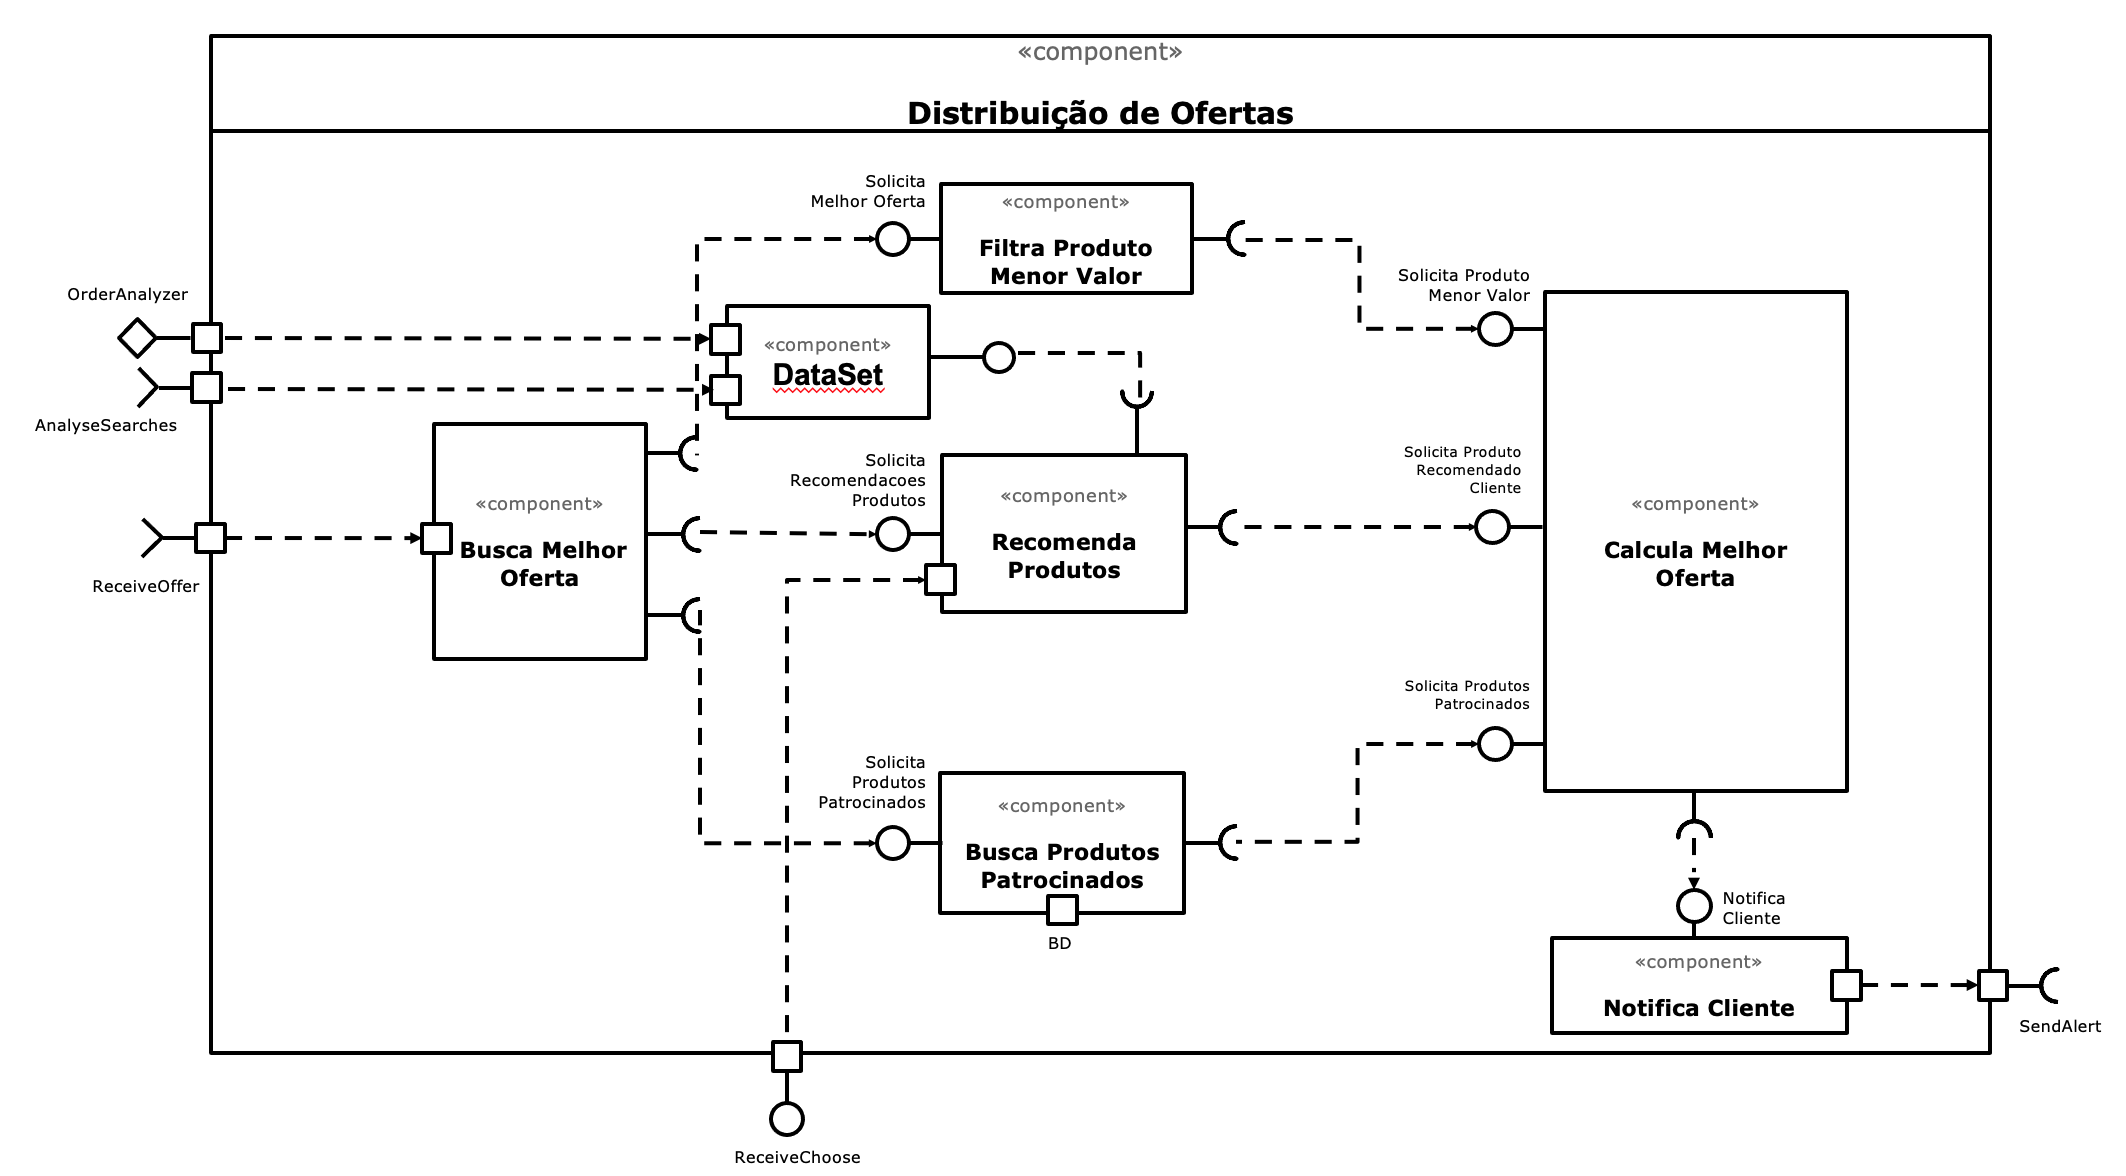
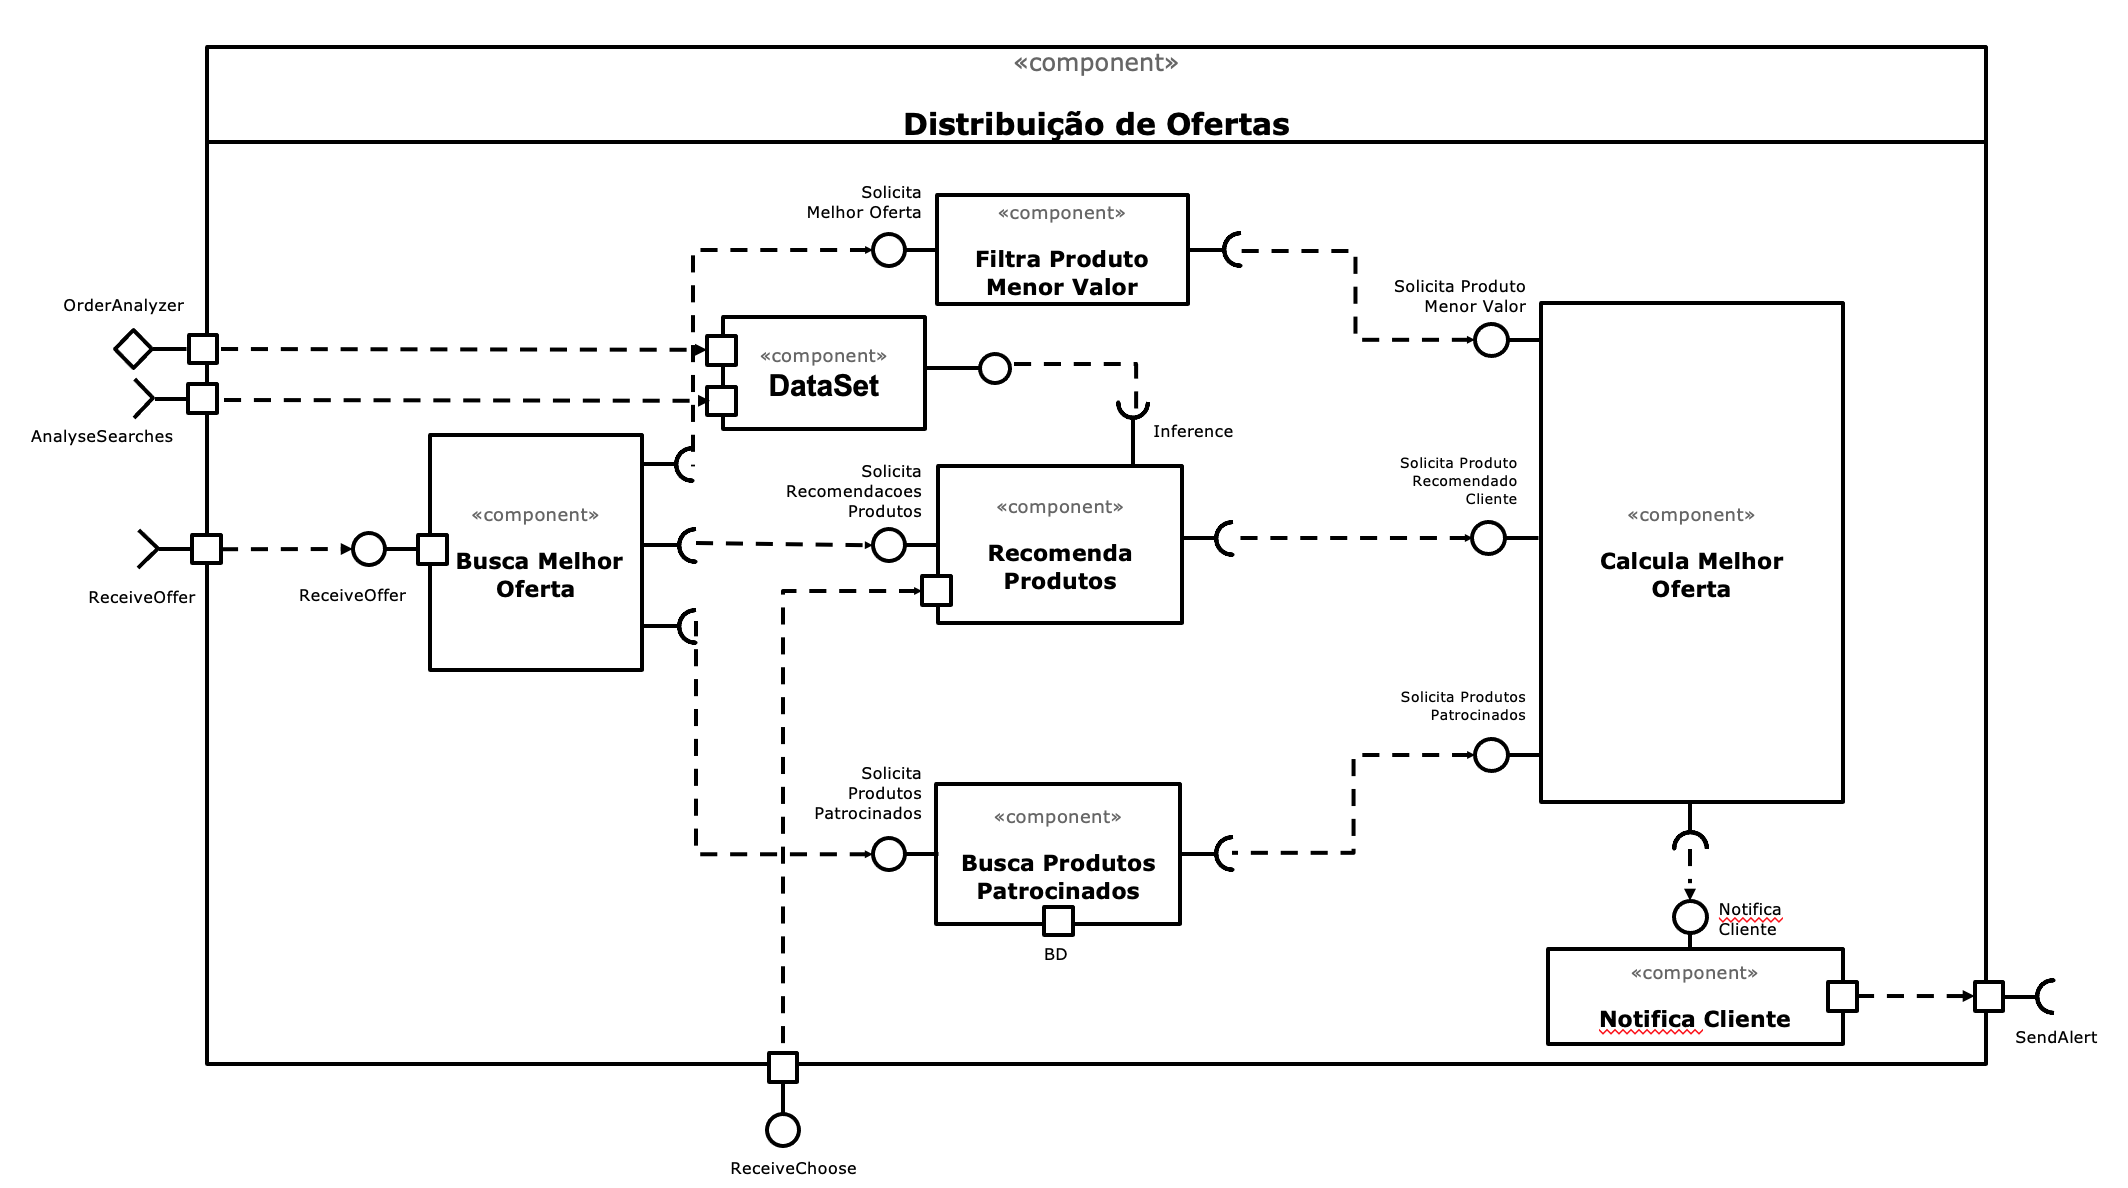
Adding Changes

diff --git a/README.md b/README.md
@@ -30,6 +30,7 @@ Para a construção dos diagramas, devem ser usados modelos disponíveis em: [Di
 * `Daniela Bouwman Codeceira`
 * `Jonata Laureano da Silva Cortez`
 * `Matheus Raposo Frauches Vieira Sias`
+* `Renato Fernandes Reis`
 * `Vitor Corrêa Oliveira`
 
 # Nível 1
@@ -409,50 +410,48 @@ As interfaces listadas são detalhadas a seguir:
 
 > Resumo do papel do componente e serviços que ele oferece.
 
+## Diagrama Geral do Nível 2
+
 ![Componente](images/N2-diagrama-subcomponentes2.png)
+
+## Diagrama MVC do Nível 2
+
 ![Componente](images/N2-diagrama-subcomponentes-mvc.png)
 
 
-**Interfaces**
-> Listagem das interfaces do componente.
+### Detalhamento da interação de componentes
 
-As interfaces listadas são detalhadas a seguir:
+* O componente `Distribuição de Ofertas` assina no barramento mensagens de tópico `product/+/alert` através da interface _ReceiveOffer_.
+  * Ao receber uma mensagem de tópico `product/+/alert` , dispara o início processo de seleção e ranqueamento dos produtos com base menor valor, produtos patrocinados e recomendaçoes com base no perfil do cliente.
 
-## Detalhamento das Interfaces
+* Internamente este evento é atendido por uma interface provida do componente `Busca Melhor Oferta`, que é responsável por selecionar e ranquear os produtos/ofertas.
 
-### Interface `<nome da interface>`
+* O componente `DataSet` assina no barramento mensagens de tópico `product/+/find` através da interface _AnalyseSearches_.
+  *  O componente analisa as buscas realizadas pelo cliente para enriquecimento do modelo de recomendações.
 
-![Diagrama da Interface](images/diagrama-interface-itableproducer.png)
+* O componente `DataSet` assina no barramento mensagens de tópico ``order/+/send`` através da interface _OrderAnalyser_.
+  *  O componente analisa as ordens emitidas pelas `Lojas` através do tópico _Order_ `order/+/send` e utiliza estas informaçoes para enriquecimento do modelo de recomendações.
 
-> Resumo do papel da interface.
+* O componente `DataSet` conecta-se ao dataset utilizado para treinar o modelo usado para recomendaçoes de produtos com base no perfil do cliente através da interface _Inference_
 
-Método | Objetivo
--------| --------
-`<id do método>` | `<objetivo do método e descrição dos parâmetros>`
+* O componente `Busca Melhor Oferta` notifica o componente `Filtra Produto Menor Valor` que uma oferta está a caminho através da interface _SolicitaMelhor Oferta_.
 
-## Exemplos:
+* O componente `Busca Melhor Oferta` notifica o componente `Recomenda Produtos` que uma oferta está a caminho através da interface _SolicitaRecomendacoes Produtos_.
 
-### Interface `ITableProducer`
+* O componente `Busca Melhor Oferta` notifica o componente `Busca Produtos Patrocinados` que uma oferta está a caminho através da interface _Solicita Produtos Patrocinados_.
 
-![Diagrama da Interface](images/diagrama-interface-itableproducer.png)
+* O componente `Filtra Produto Menor Valor` filtra a oferta com o menor valor e notifica o componente `Calcula Melhor Oferta` que uma oferta está a caminho através da interface _Solicita Produto Menor Valor_.
 
-Interface provida por qualquer fonte de dados que os forneça na forma de uma tabela.
+* O componente `Recomenda Produtos` solicita ao componente `DataSet`, através da interface _Inference_, recomendaçoes de ofertas com base no no perfil do cliente.
+  
+* O componente `Recomenda Produtos` notifica o componente `Calcula Melhor Oferta` que um conjunto de recomendações de ofertas está a caminho através da interface _Solicita Produto Recomendado_.
 
-Método | Objetivo
--------| --------
-`requestAttributes` | Retorna um vetor com o nome de todos os atributos (colunas) da tabela.
-`requestInstances` | Retorna uma matriz em que cada linha representa uma instância e cada coluna o valor do respectivo atributo (a ordem dos atributos é a mesma daquela fornecida por `requestAttributes`.
+* O componente `Busca Produtos Patrocinados` consulta sua base de dados de produtos partocinados e notifica o componente `Calcula Melhor Ofertas` que um conjuntos de produtos patrocinados está a caminho através da interface _Solicita Produtos Patrocinados_.
 
-### Interface `IDataSetProperties`
+* O componente `Calcula Melhor Ofertas` faz seleção e ranqueamento dos produtos com base menor valor, produtos patrocinados e recomendaçoes com base no perfil do cliente e notifica o componente `Notifica Cliente` sobre melhor oferta disponível através da interface _NotificaCliente_.
 
-![Diagrama da Interface](images/diagrama-interface-idatasetproperties.png)
+* O componente `Notifica Cliente` notifica o assinante/cliente sobre as melhores ofertas disponíveis baseado no seu perfil atraves da interface _SendAlert_
 
-Define o recurso (usualmente o caminho para um arquivo em disco) que é a fonte de dados.
-
-Método | Objetivo
--------| --------
-`getDataSource` | Retorna o caminho da fonte de dados.
-`setDataSource` | Define o caminho da fonte de dados, informado através do parâmetro `dataSource`.
 
 ## Diagrama do Nível 3
 
